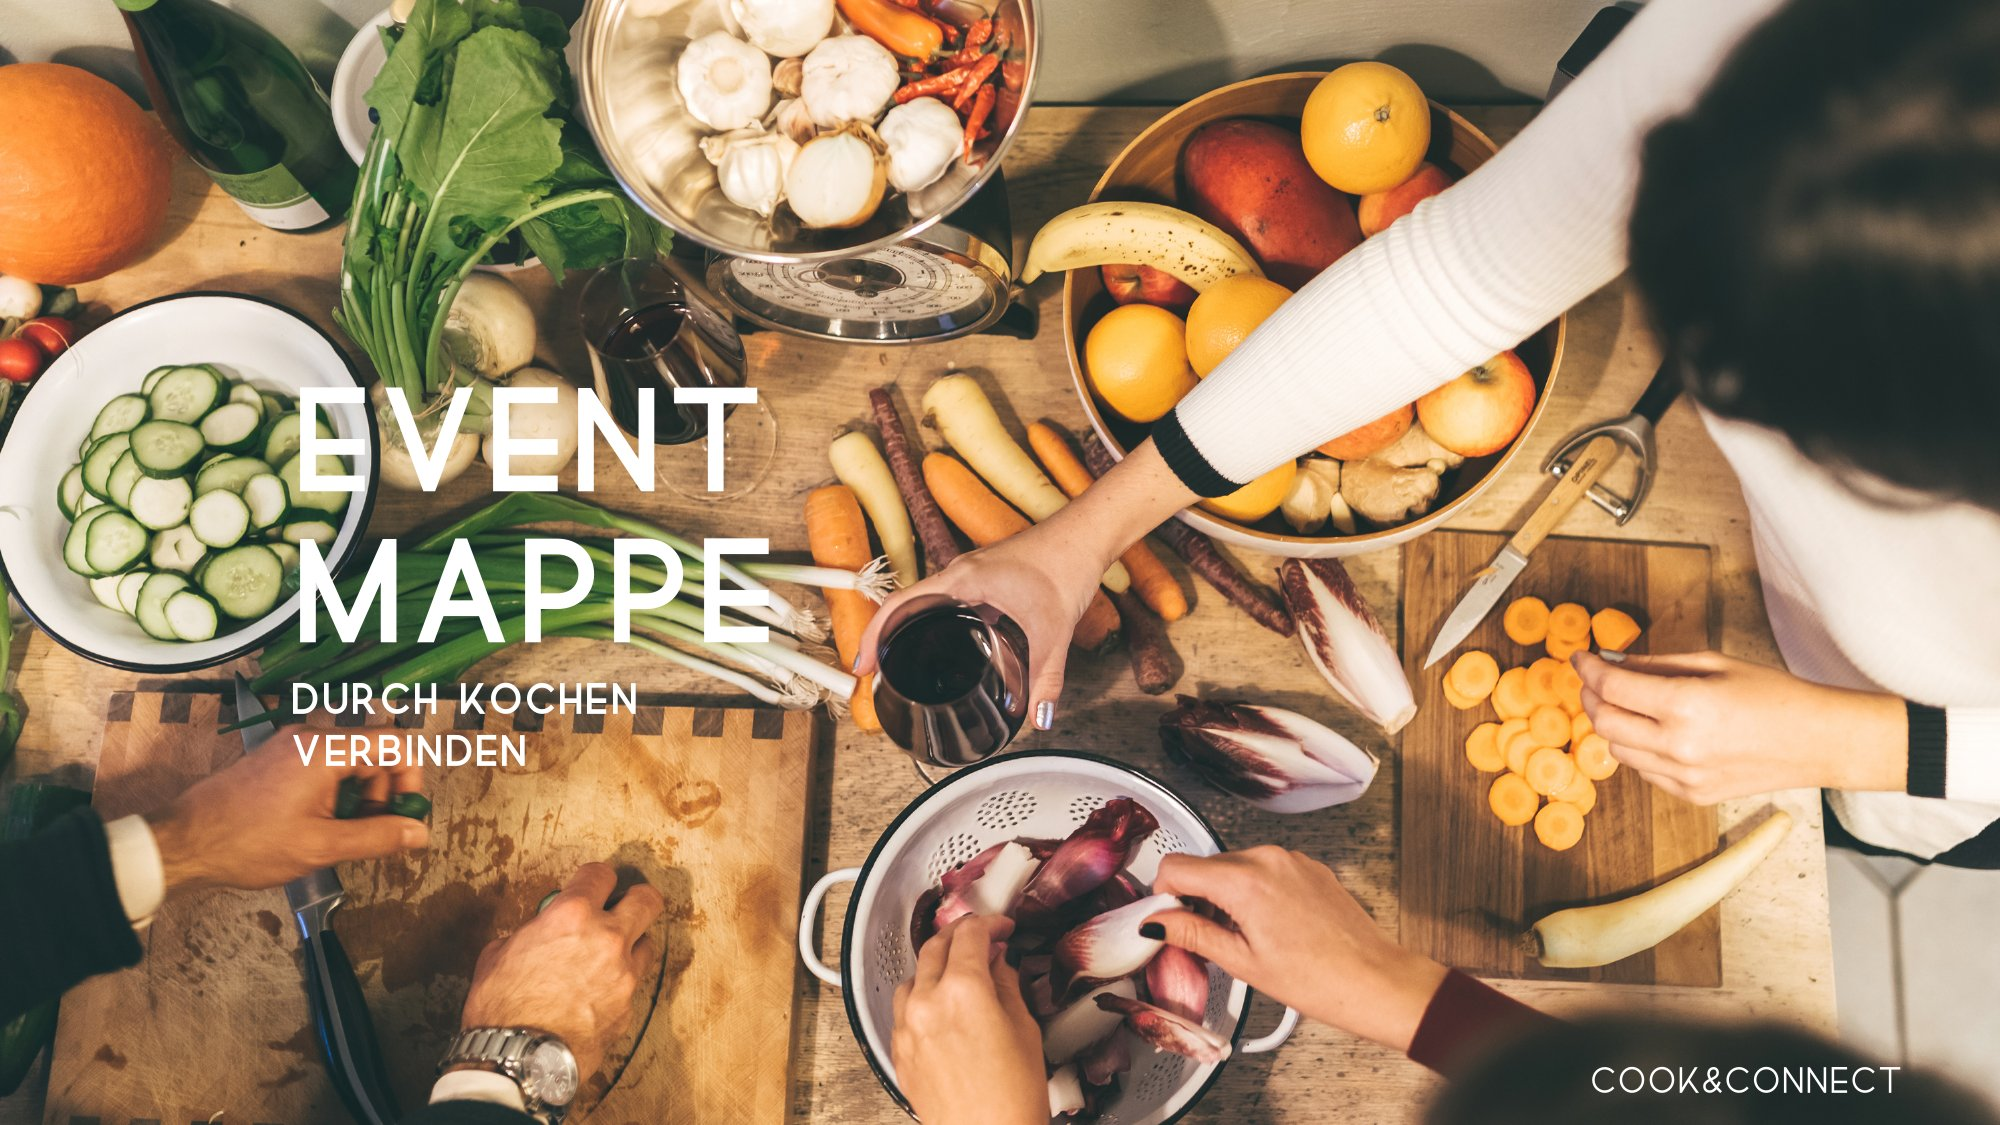
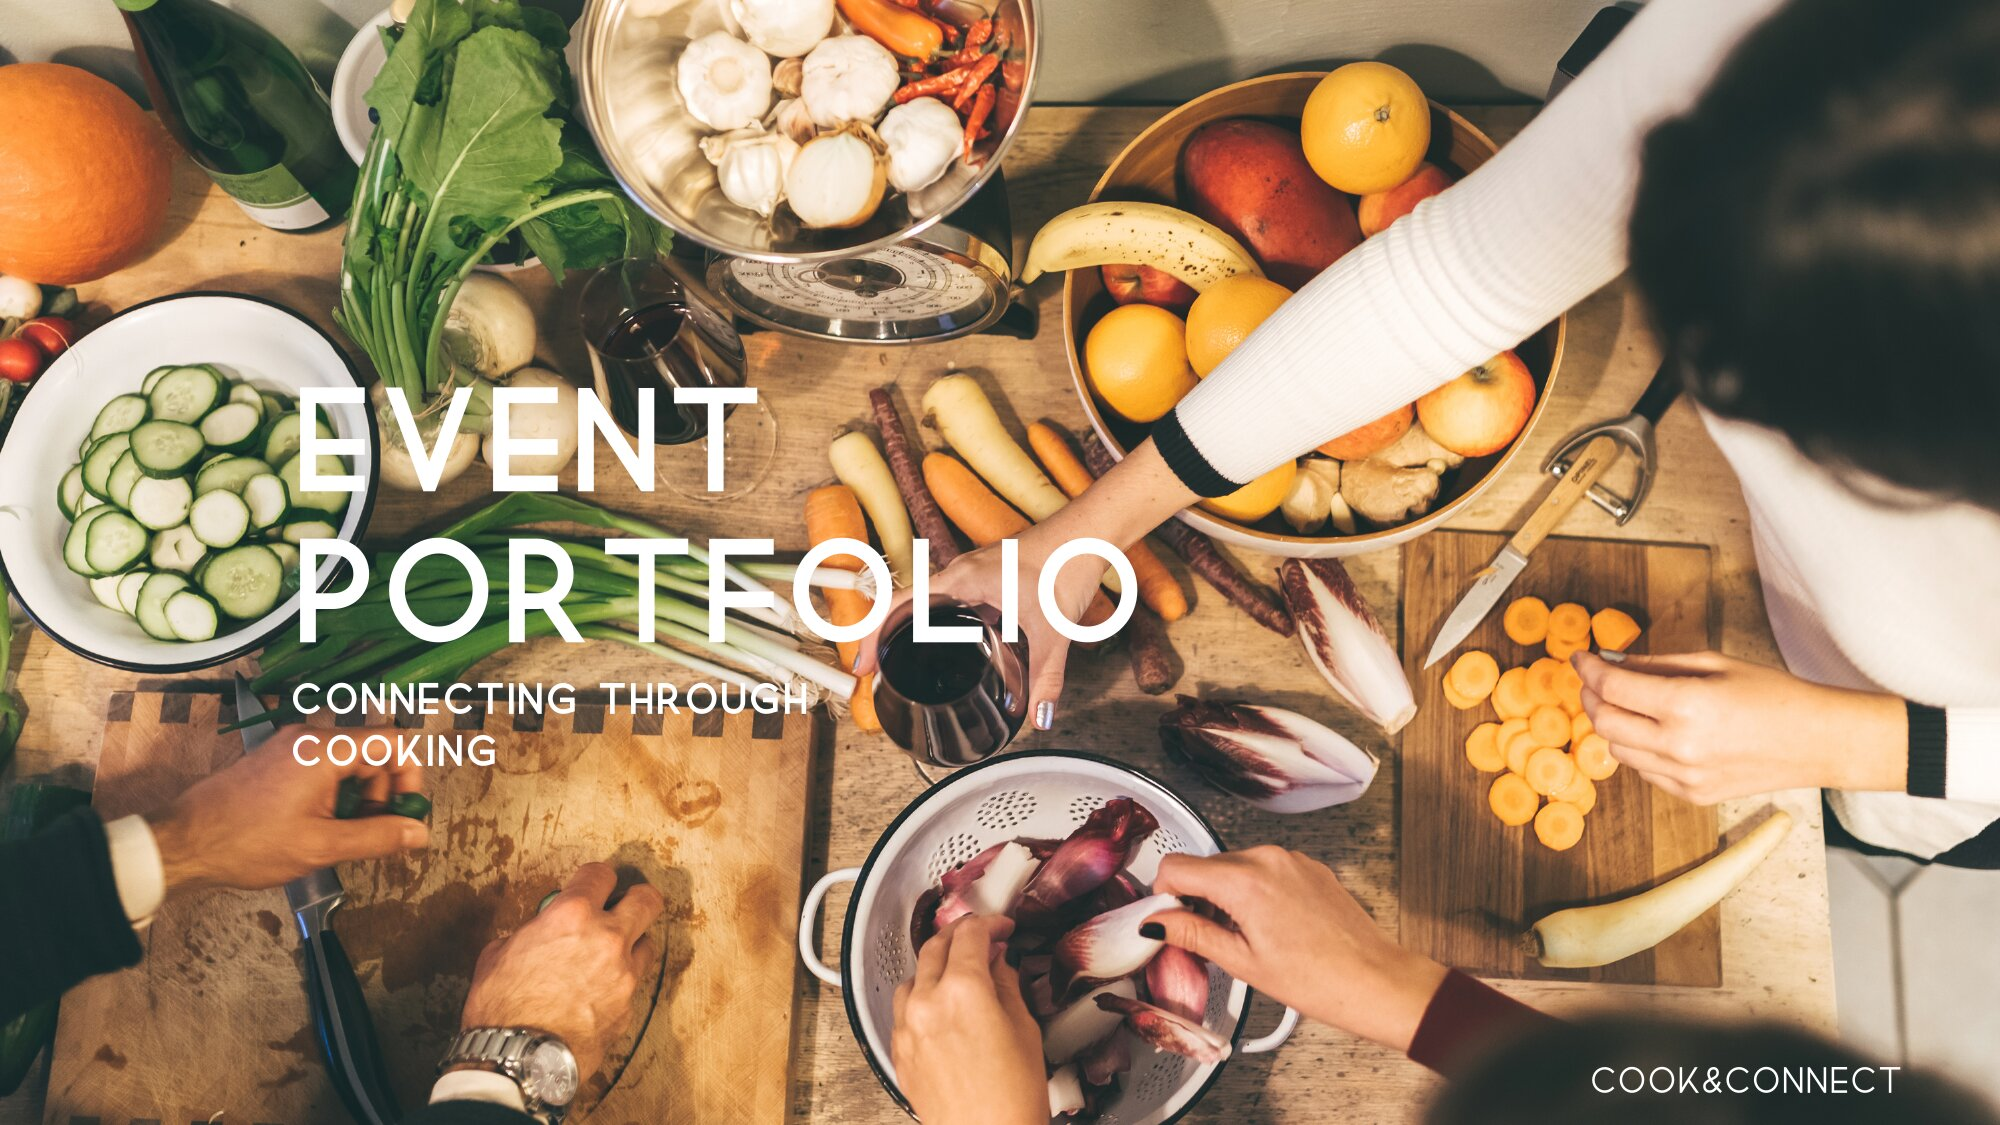
Replace Cook & Connect slides with English versions
Claude-Session: https://claude.ai/code/session_01NHDWBqvqYjtUgAs48qipbm

Changed region(s): [[0.124, 0.4667, 0.496, 0.6844], [0.496, 0.4667, 0.589, 0.5911]]

diff --git a/public/projects/cook-and-connect.html b/public/projects/cook-and-connect.html
@@ -28,7 +28,7 @@
         <header class="case-hero">
           <h1 class="case-title">Cook &amp; Connect</h1>
           <p class="case-lede">Team cooking events that turn integration into a shared table.</p>
-          <img class="case-cover" src="/assets/cook-and-connect/cover.jpg" alt="Cook &amp; Connect event folder cover: hands preparing vegetables together around a kitchen table." width="2000" height="1125">
+          <img class="case-cover" src="/assets/cook-and-connect/cover.jpg" alt="Cook &amp; Connect event portfolio cover, connecting through cooking: hands preparing vegetables together around a kitchen table." width="2000" height="1125">
         </header>
 
         <dl class="facts">
@@ -103,10 +103,10 @@
           <p>I designed the event portfolio that introduces companies to the concept: the event flow, three menu options, location options and transparent pricing.</p>
           <div class="figures">
             <figure>
-              <a href="/assets/cook-and-connect/event-flow.jpg" target="_blank" rel="noopener"><img src="/assets/cook-and-connect/event-flow.jpg" alt="Event flow timeline: welcome and introduction, team split, cooking, starter, dinner together, sharing recipes and goodbye." width="2000" height="1125" loading="lazy"></a>
+              <a href="/assets/cook-and-connect/event-flow.jpg" target="_blank" rel="noopener"><img src="/assets/cook-and-connect/event-flow.jpg" alt="Event programme timeline: reception and introduction, division into teams, cooking, starter serving, dinner together, sharing recipes and goodbye." width="2000" height="1125" loading="lazy"></a>
             </figure>
             <figure>
-              <a href="/assets/cook-and-connect/menu.jpg" target="_blank" rel="noopener"><img src="/assets/cook-and-connect/menu.jpg" alt="Menu option with Bolani from Afghanistan, Zigni with Injera from Eritrea and Baklava from Syria." width="2000" height="1125" loading="lazy"></a>
+              <a href="/assets/cook-and-connect/menu.jpg" target="_blank" rel="noopener"><img src="/assets/cook-and-connect/menu.jpg" alt="Menu option with Borscht from Ukraine, Kibbeh bil Sanieh from Syria and Firni from Afghanistan." width="2000" height="1125" loading="lazy"></a>
             </figure>
           </div>
         </section>
